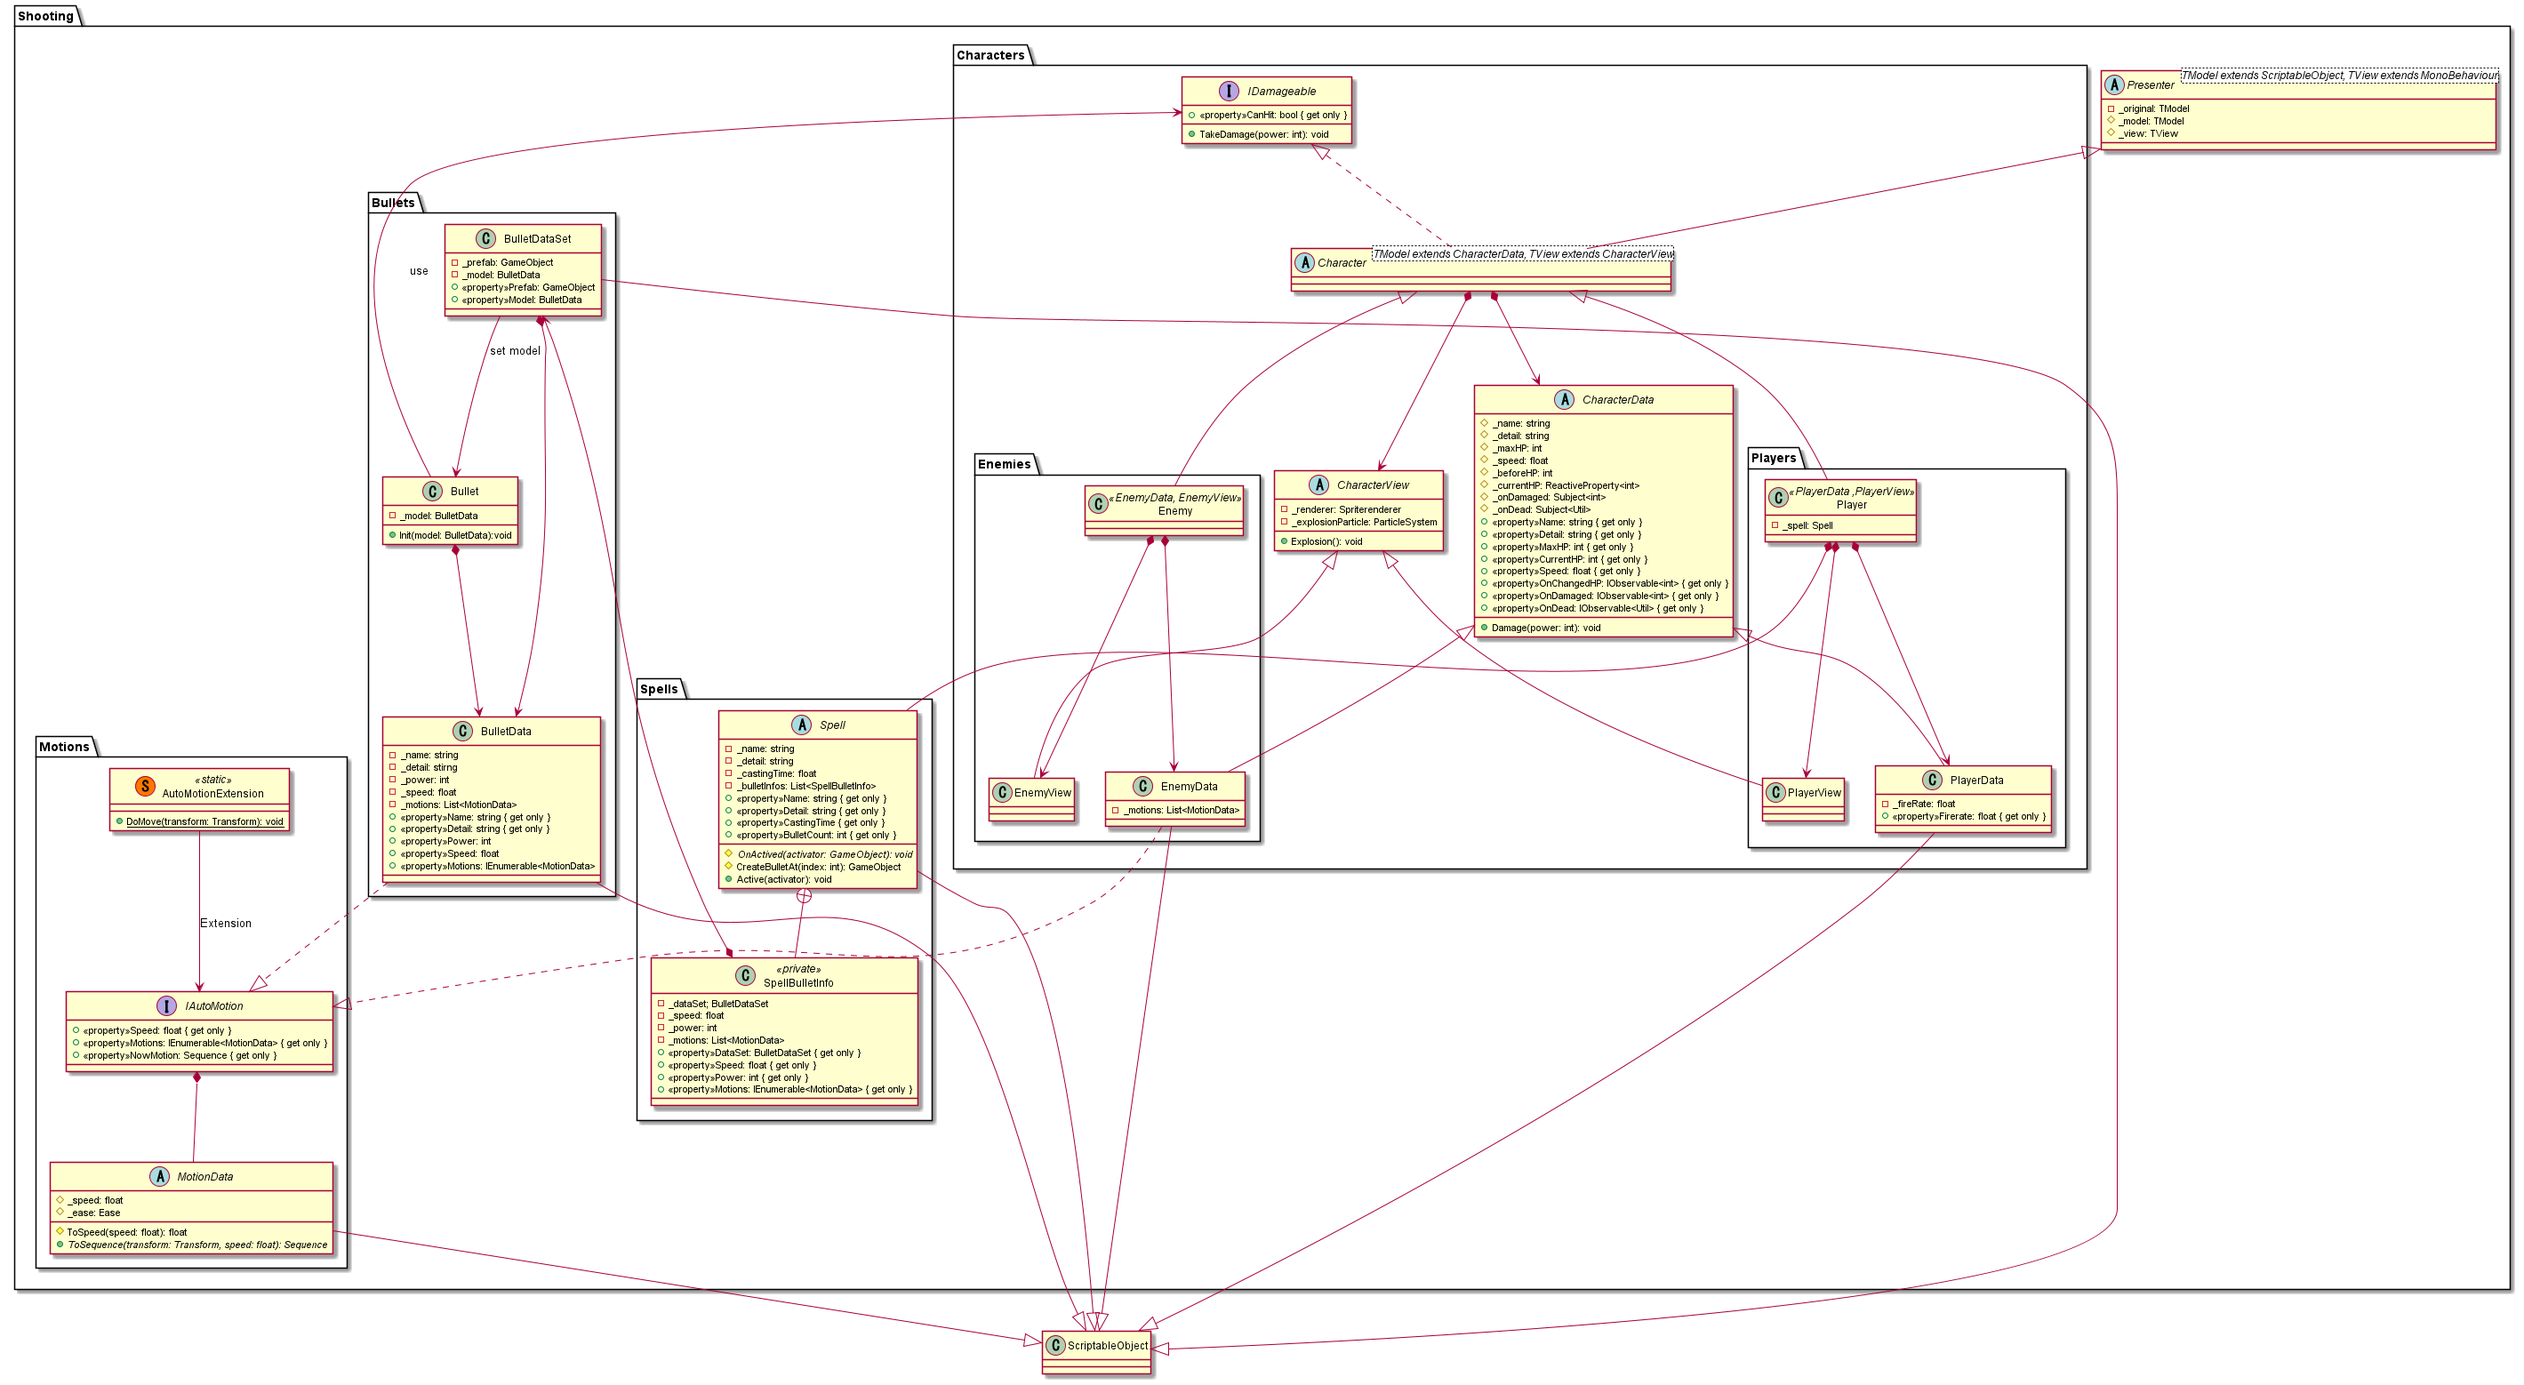
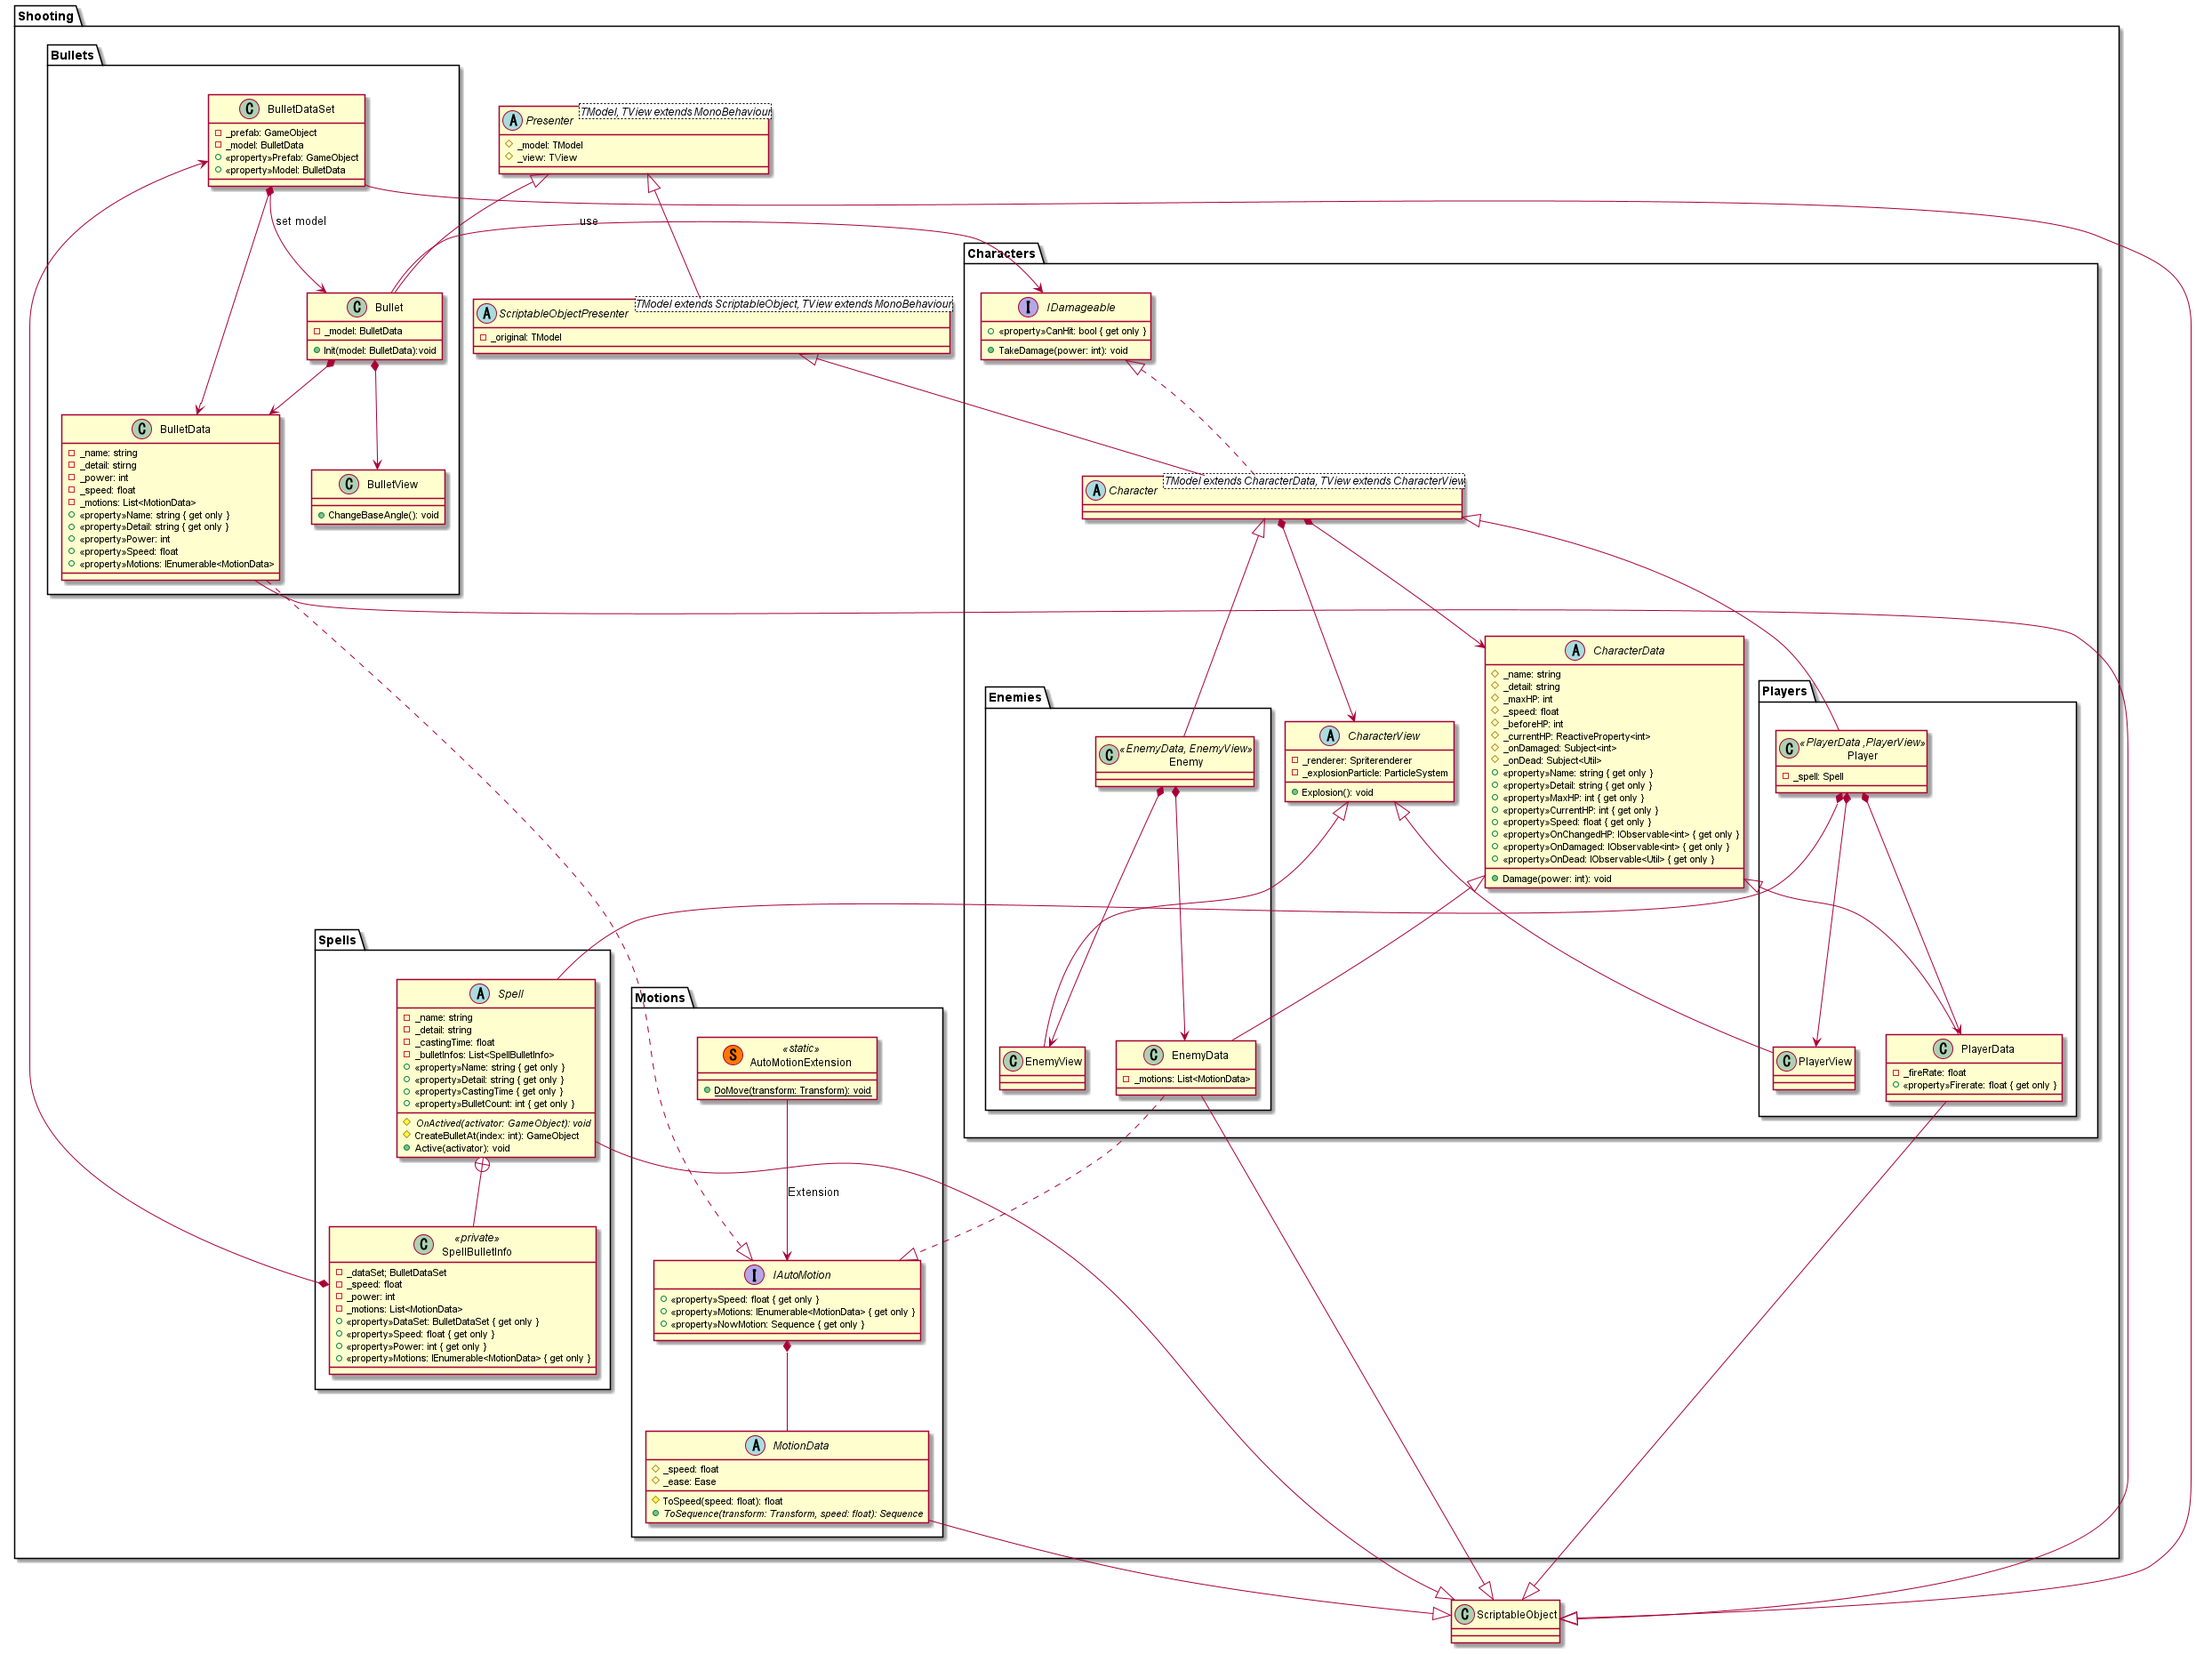
fix bullet view

Changed region(s): [[0.0, 0.0, 1.0, 1.0], [0.3741, 0.4621, 0.4053, 0.4929]]

diff --git a/Assets/Project/Scripts/Bullets/Bullet.cs b/Assets/Project/Scripts/Bullets/Bullet.cs
@@ -8,15 +8,12 @@ using Shooting.Motions;
 
 namespace Shooting.Bullets
 {
-    [RequireComponent(typeof(Rigidbody2D))]
-    public class Bullet : MonoBehaviour
+    [RequireComponent(typeof(BulletView), typeof(Rigidbody2D))]
+    public class Bullet : Presenter<BulletData, BulletView>
     {
-        private BulletData _model;
-
         private void Start()
         {
-            var value = gameObject.layer == LayerMask.NameToLayer("PlayersBullet") ? 0 : 180;
-            transform.rotation = Quaternion.AngleAxis(value, Vector3.up);
+            _view.ChangeBaseAngle();
             this.OnTriggerEnter2DAsObservable()
                 .Select(collider => collider.gameObject.GetComponent<IDamageable>())
                 .Where(damageable => damageable != null && damageable.CanHit)

diff --git a/Assets/Project/Scripts/Presenter.cs b/Assets/Project/Scripts/Presenter.cs
@@ -3,17 +3,13 @@ using UnityEngine;
 namespace Shooting
 {
     public abstract class Presenter<TModel, TView> : MonoBehaviour
-        where TModel : ScriptableObject
         where TView : MonoBehaviour
     {
-        [SerializeField]
-        private TModel _original;
         protected TModel _model { get; set; }
         protected TView _view { get; set; }
 
         protected virtual void Awake()
         {
-            _model = Instantiate<TModel>(_original);
             _view = GetComponent<TView>();
         }
     }

diff --git a/Assets/Project/Scripts/ScriptableObjectPresenter.cs b/Assets/Project/Scripts/ScriptableObjectPresenter.cs
@@ -1,0 +1,18 @@
+using UnityEngine;
+
+namespace Shooting
+{
+    public abstract class ScriptableObjectPresenter<TModel, TView> : Presenter<TModel, TView>
+        where TModel : ScriptableObject
+        where TView : MonoBehaviour
+    {
+        [SerializeField]
+        private TModel _original;
+
+        protected override void Awake()
+        {
+            base.Awake();
+            _model = Instantiate<TModel>(_original);
+        }
+    }
+}

diff --git a/Assets/Project/Scripts/Bullets/BulletView.cs b/Assets/Project/Scripts/Bullets/BulletView.cs
@@ -1,0 +1,13 @@
+using UnityEngine;
+
+namespace Shooting.Bullets
+{
+    public class BulletView : MonoBehaviour
+    {
+        public void ChangeBaseAngle()
+        {
+            var value = gameObject.layer == LayerMask.NameToLayer("PlayersBullet") ? 0 : 180;
+            transform.rotation = Quaternion.AngleAxis(value, Vector3.up);
+        }
+    }
+}

diff --git a/Assets/Project/Scripts/Characters/Character.cs b/Assets/Project/Scripts/Characters/Character.cs
@@ -3,7 +3,7 @@ using UniRx;
 
 namespace Shooting.Characters
 {
-    public abstract class Character<TModel, TView> : Presenter<TModel, TView>, IDamageable
+    public abstract class Character<TModel, TView> : ScriptableObjectPresenter<TModel, TView>, IDamageable
         where TModel : CharacterData
         where TView : CharacterView
     {
